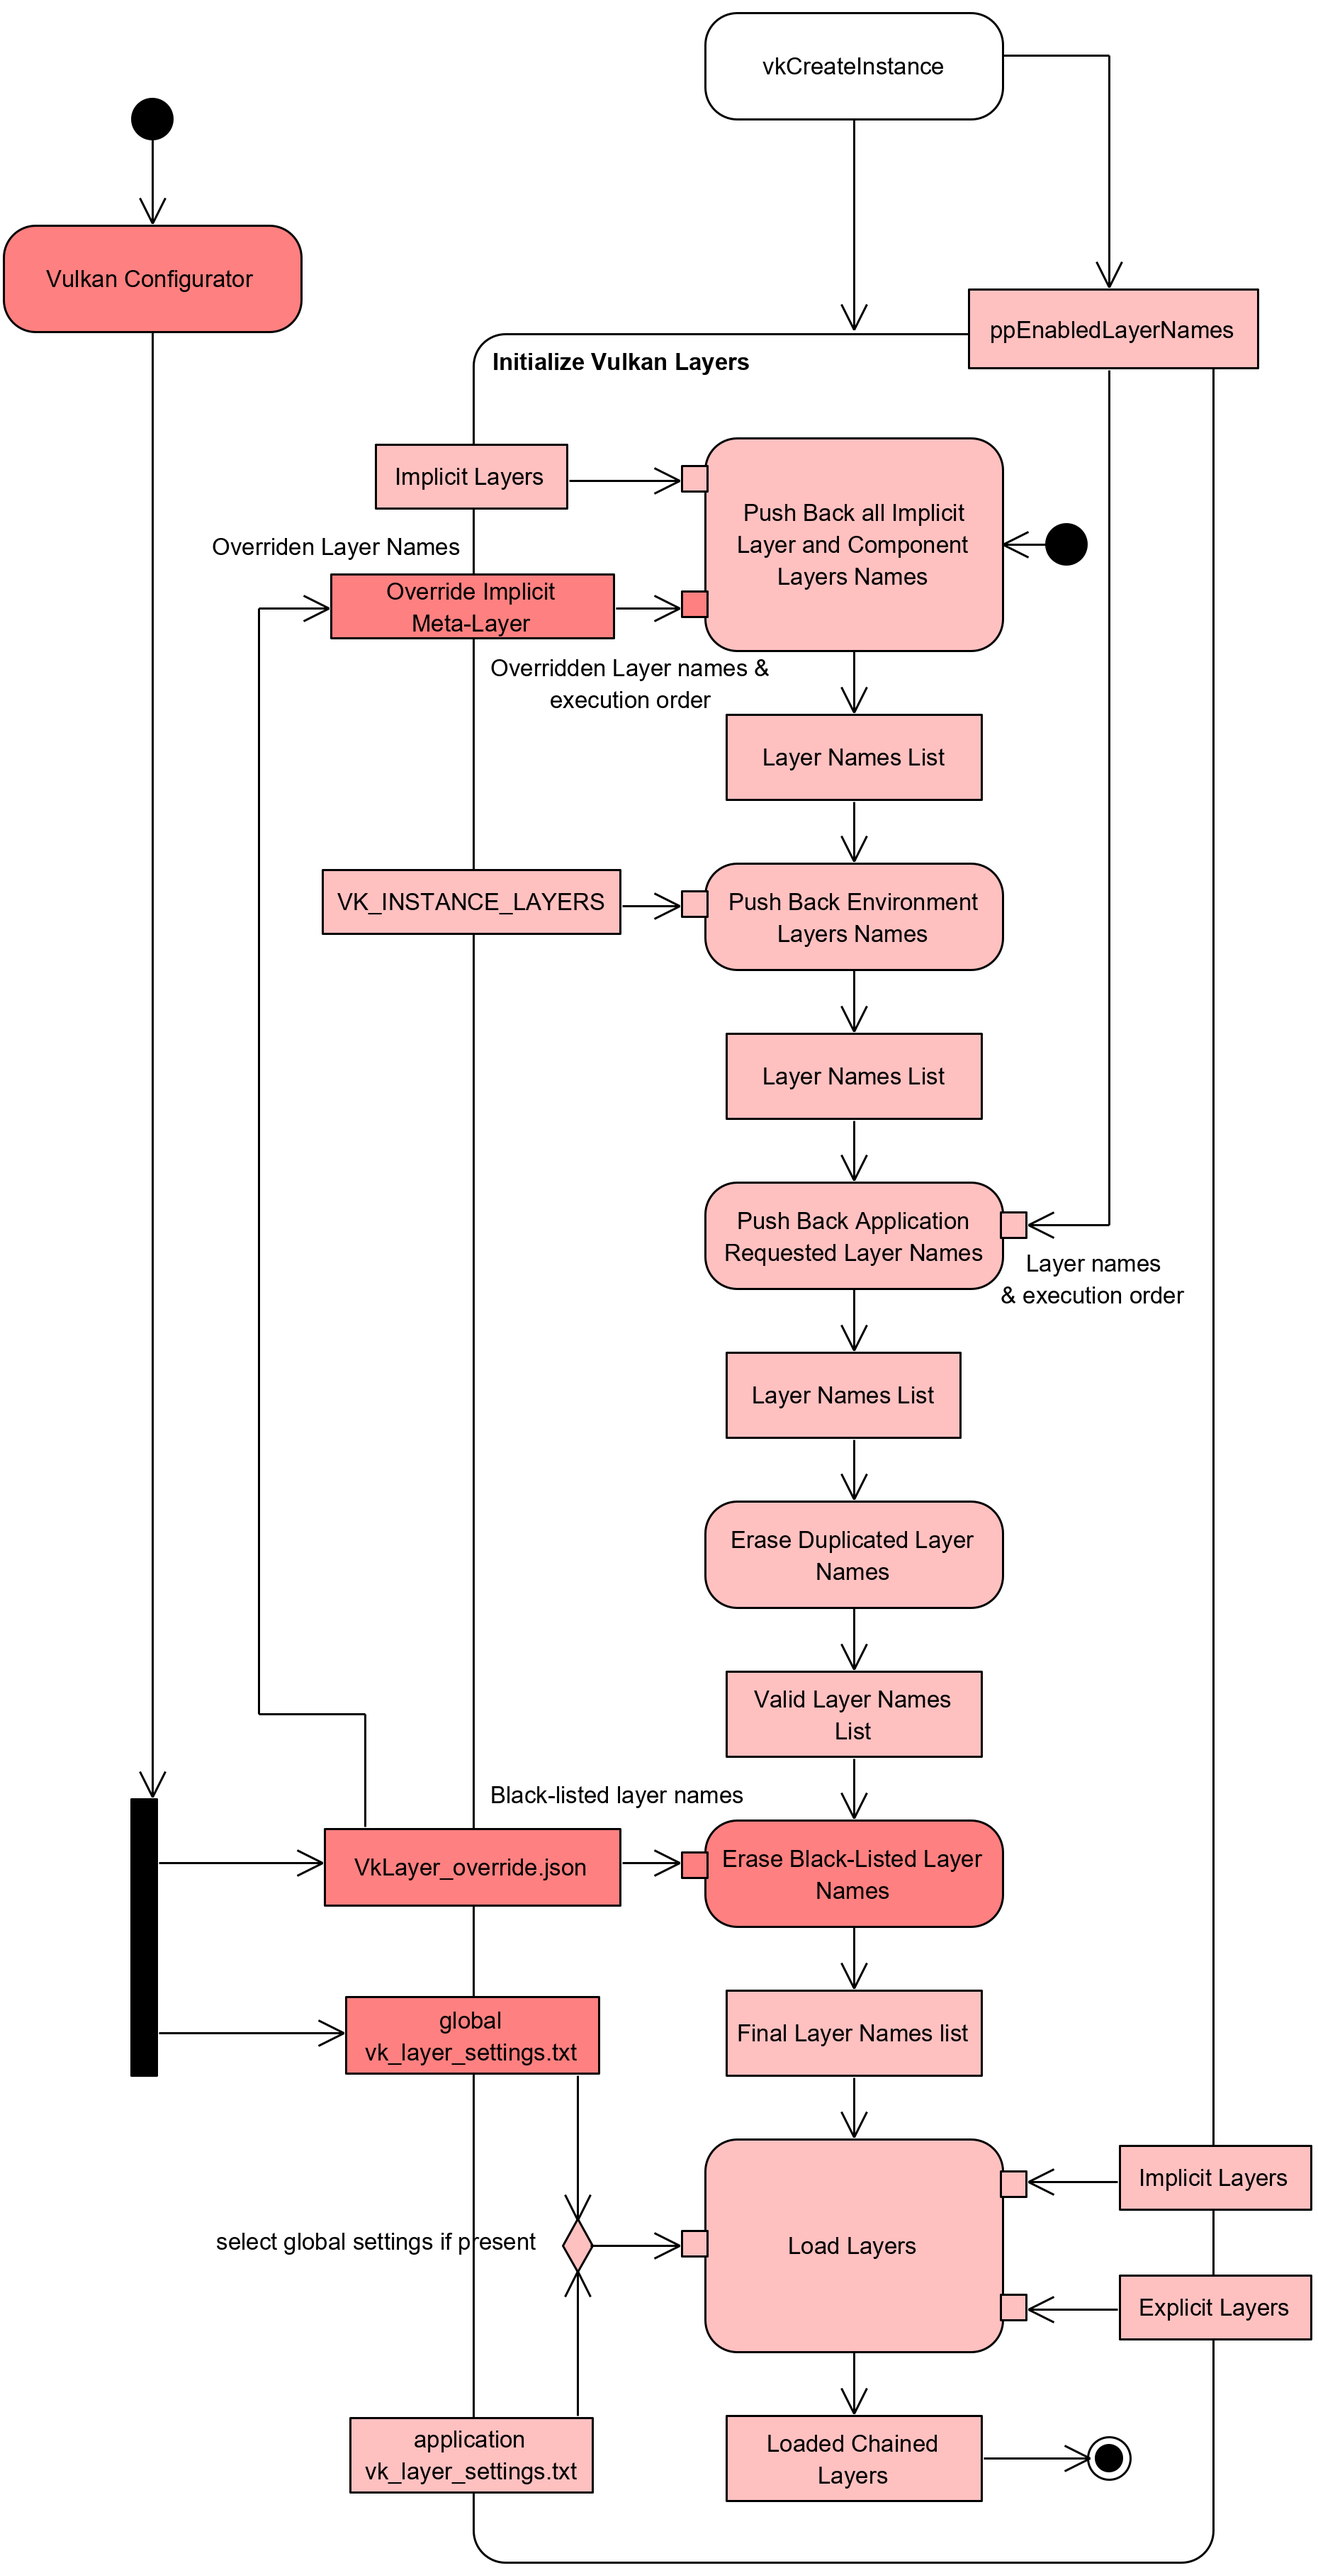
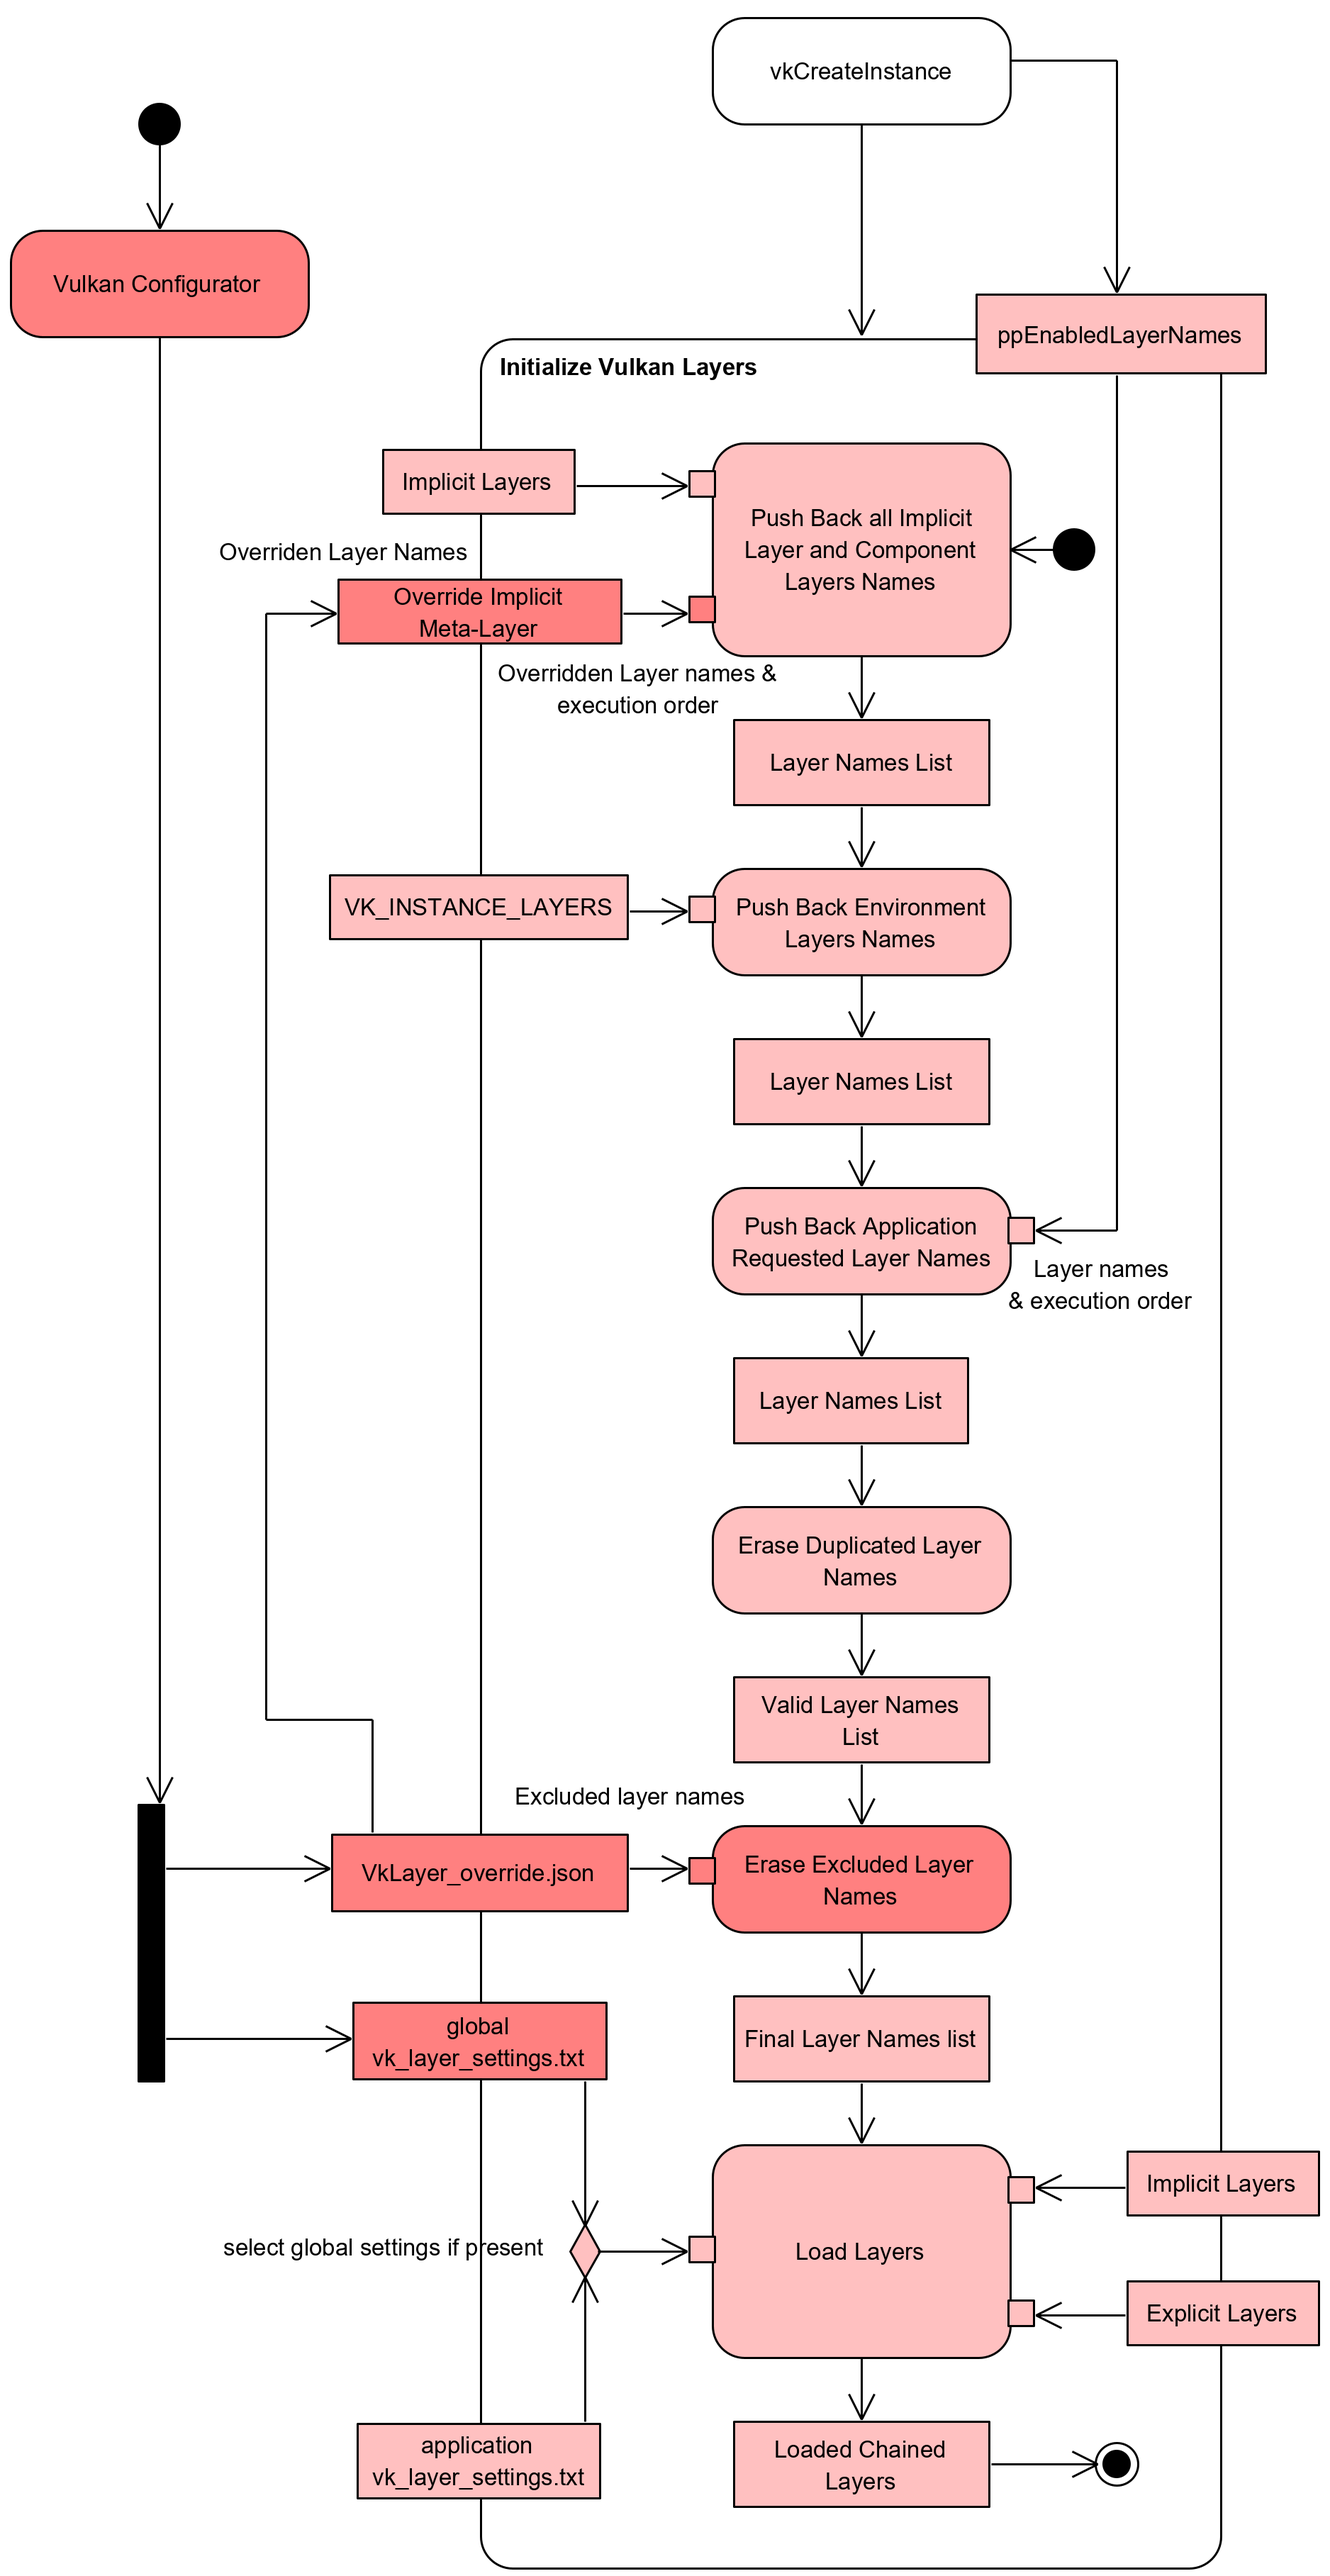
vkconfig - fix typo and replaced black-listed by excluded. Not quick sure about that change so stating it here: There is a real society struggle due to real, massive and organized inequalities. Maybe the vocalulary contribute to create the inequality but it's at least only just a part of it and ther

diff --git a/vkconfig/vkconfig.md b/vkconfig/vkconfig.md
@@ -54,7 +54,7 @@ The tool is distributed differently, depending on the platform:
 
 Glossary
 --------------
-***[Vulkan Layer](https://github.com/KhronosGroup/Vulkan-Loader/blob/master/loader/LoaderAndLayerInterface.md#layers)***: A layer is optional library that can intercept Vulkan functions on their way from the Vulkan application down to the Vulkan drivers. Multiple layers can be chained together to use multiple layer functionalities simultanously.
+***[Vulkan Layer](https://github.com/KhronosGroup/Vulkan-Loader/blob/master/loader/LoaderAndLayerInterface.md#layers)***: A layer is an optional library that can intercept Vulkan functions on their way from the Vulkan application down to the Vulkan drivers. Multiple layers can be chained together to use multiple layer functionalities simultanously.
 
 ***Vulkan Layers Configuration***: A collection of Vulkan Layers executed in [a specific order](https://github.com/KhronosGroup/Vulkan-Loader/blob/master/loader/LoaderAndLayerInterface.md#overall-layer-ordering) with specific settings for each layer.
 
@@ -64,9 +64,9 @@ Glossary
 
 ***Vulkan Layer settings***: Per layer settings loaded by each layer libraries and stored in the `vk_layer_settings.txt` file which seats next to the Vulkan application executable or that is globally applied to all Vulkan applications. These settings are described [here for VK_LAYER_KHRONOS_validation](https://github.com/KhronosGroup/Vulkan-ValidationLayers/blob/master/layers/vk_layer_settings.txt) and [here for other layers created by LunarG](https://github.com/LunarG/VulkanTools/blob/master/layersvt/vk_layer_settings.txt).
 
-***[Vulkan Override Layer](https://github.com/KhronosGroup/Vulkan-Loader/blob/master/loader/LoaderAndLayerInterface.md##override-meta-layer)***: The Vulkan Override Layer is an implicit meta-layer found on the system with the name `VK_LAYER_LUNARG_override` and it is the mechanism used by *Vulkan Configurator* to override Vulkwn applications layers. This layer contains:
+***[Vulkan Override Layer](https://github.com/KhronosGroup/Vulkan-Loader/blob/master/loader/LoaderAndLayerInterface.md##override-meta-layer)***: The Vulkan Override Layer is an implicit meta-layer found on the system with the name `VK_LAYER_LUNARG_override` and it is the mechanism used by *Vulkan Configurator* to override Vulkan applications layers. This layer contains:
 - The ordered list of layers to activate
-- The list of layers to black-list
+- The list of layers to exclude from execution
 - The list of paths to executables that the override applies to. If this list is empty, the override is applied to every application upon startup.
 
 Vulkan Layers execution order overview
@@ -86,7 +86,7 @@ OS User-Specific Modifications
 The *Vulkan Configurator* does not make any system-wide changes to a system, but it does make user-specific changes.
 These changes are documented below:
 
-### Linux/Mac
+### Linux and macOS
 
 Unix systems store files in the following paths:
 
